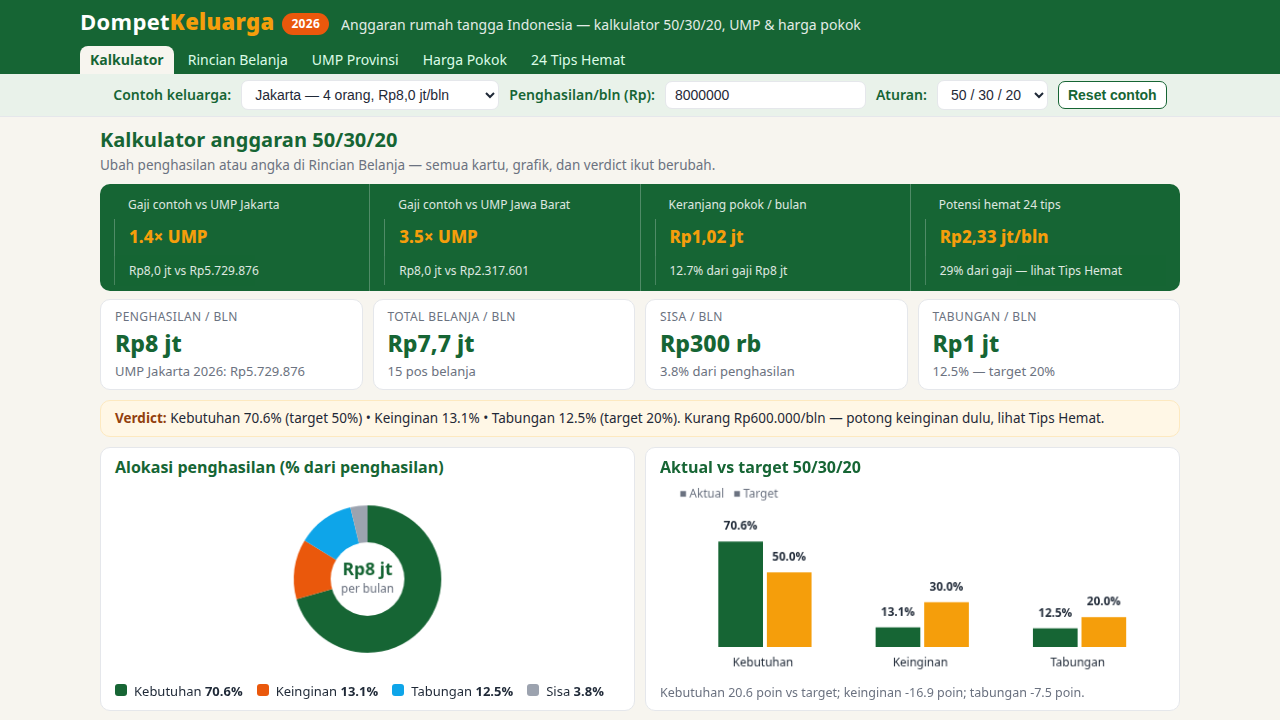
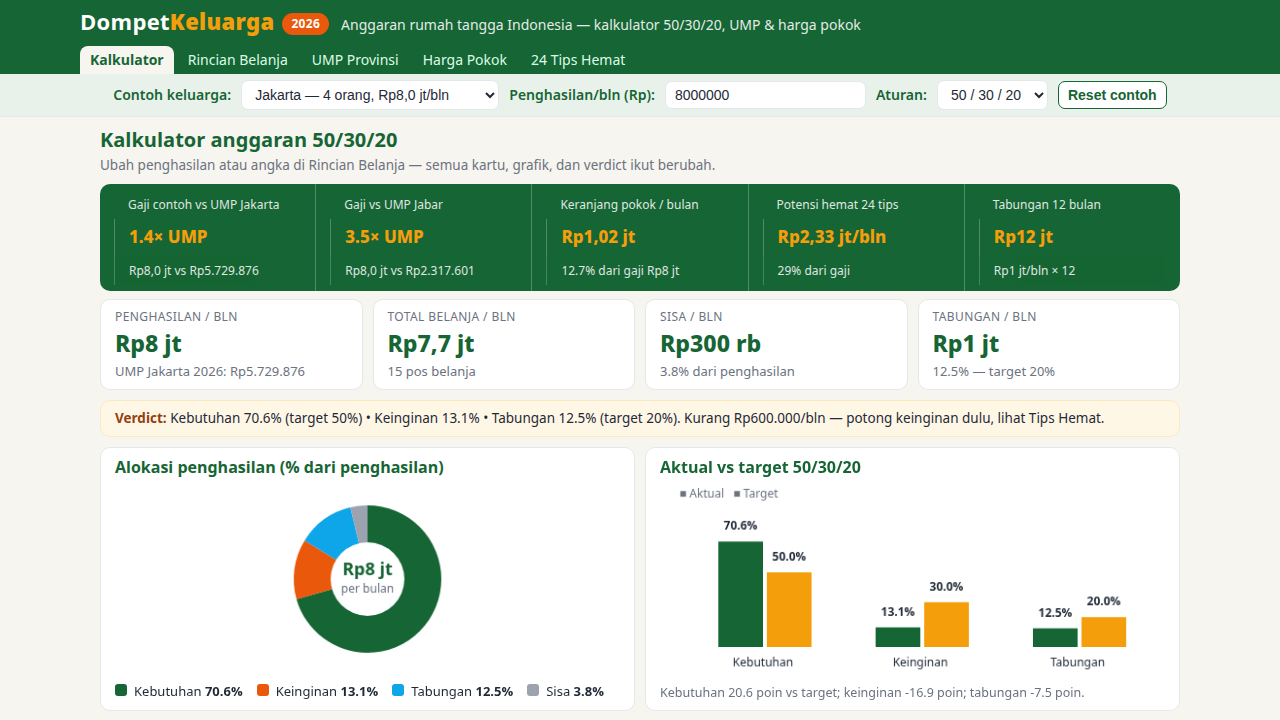
Angkat proyeksi ke hero: sel ke-5 Tabungan 12 bulan Rp12,0 jt, label hero dipendekkan

diff --git a/app/index.html b/app/index.html
@@ -107,9 +107,10 @@ footer .wrap p{margin:3px 0}
 <p class="sub">Ubah penghasilan atau angka di Rincian Belanja — semua kartu, grafik, dan verdict ikut berubah.</p>
 <div class="hero">
 <div><div class="hk">Gaji contoh vs UMP Jakarta</div><div class="hv" id="heroUmp">1,4× UMP</div><div class="hd">Rp8,0 jt vs Rp5.729.876</div></div>
-<div><div class="hk">Gaji contoh vs UMP Jawa Barat</div><div class="hv" id="heroUmpJabar">3,5× UMP</div><div class="hd">Rp8,0 jt vs Rp2.317.601</div></div>
+<div><div class="hk">Gaji vs UMP Jabar</div><div class="hv" id="heroUmpJabar">3,5× UMP</div><div class="hd">Rp8,0 jt vs Rp2.317.601</div></div>
 <div><div class="hk">Keranjang pokok / bulan</div><div class="hv">Rp1,02 jt</div><div class="hd" id="heroBasket">12,7% dari gaji Rp8,0 jt</div></div>
-<div><div class="hk">Potensi hemat 24 tips</div><div class="hv">Rp2,33 jt/bln</div><div class="hd">29% dari gaji — lihat Tips Hemat</div></div>
+<div><div class="hk">Potensi hemat 24 tips</div><div class="hv">Rp2,33 jt/bln</div><div class="hd">29% dari gaji</div></div>
+<div><div class="hk">Tabungan 12 bulan</div><div class="hv" id="heroSave12">Rp12,0 jt</div><div class="hd" id="heroSave12Note">Rp1,0 jt/bln × 12</div></div>
 </div>
 <div class="cards">
 <div class="card"><div class="k">Penghasilan / bln</div><div class="v" id="cIncome">Rp8,0 jt</div><div class="d" id="cIncomeNote">UMP Jakarta 2026: Rp5.729.876</div></div>
@@ -249,7 +250,7 @@ $('cIncome').textContent=fmtShort(inc);$('cSpend').textContent=fmtShort(s.total)
 const sur=inc-s.total;$('cSurplus').textContent=fmtShort(Math.max(sur,0))+(sur<0?' (tekor)':'');$('cSurplusNote').textContent=(sur/inc*100).toFixed(1)+'% dari penghasilan';
 $('surplusCard').classList.toggle('warn',sur<0);
 $('cSave').textContent=fmtShort(s.save);$('cSaveNote').textContent=(s.save/inc*100).toFixed(1)+'% — target '+rp.save+'%';
-$('heroUmp').textContent=(inc/5729876).toFixed(1)+'× UMP';$('heroUmpJabar').textContent=(inc/2317601).toFixed(1)+'× UMP';$('heroBasket').textContent=(1016975/inc*100).toFixed(1)+'% dari gaji '+fmtShort(inc);
+$('heroUmp').textContent=(inc/5729876).toFixed(1)+'× UMP';$('heroUmpJabar').textContent=(inc/2317601).toFixed(1)+'× UMP';$('heroBasket').textContent=(1016975/inc*100).toFixed(1)+'% dari gaji '+fmtShort(inc);$('heroSave12').textContent=fmtShort(s.save*12);$('heroSave12Note').textContent=fmtShort(s.save)+'/bln × 12';
 const np=s.needs/inc*100,wp=s.wants/inc*100,sp=s.save/inc*100;
 $('verdict').innerHTML='<b>Verdict:</b> Kebutuhan '+np.toFixed(1)+'% (target '+rp.needs+'%) • Keinginan '+wp.toFixed(1)+'% • Tabungan '+sp.toFixed(1)+'% (target '+rp.save+'%). '+(sp<rp.save?'Kurang '+fmt((rp.save/100*inc)-s.save)+'/bln — potong keinginan dulu, lihat Tips Hemat.':"Target tabungan tercapai — naikkan dana darurat ke 3–6 bulan belanja.");
 $('barNote').textContent='Kebutuhan '+(np-rp.needs).toFixed(1)+' poin vs target; keinginan '+(wp-rp.wants).toFixed(1)+' poin; tabungan '+(sp-rp.save).toFixed(1)+' poin.';
